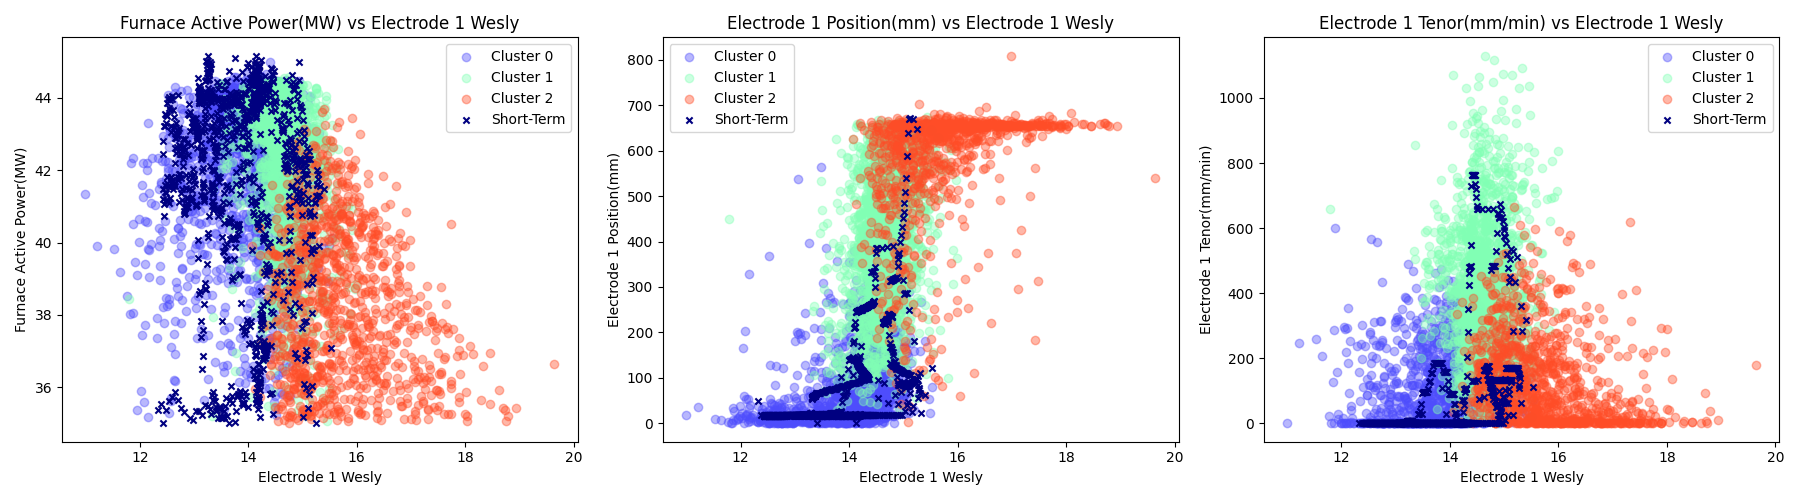
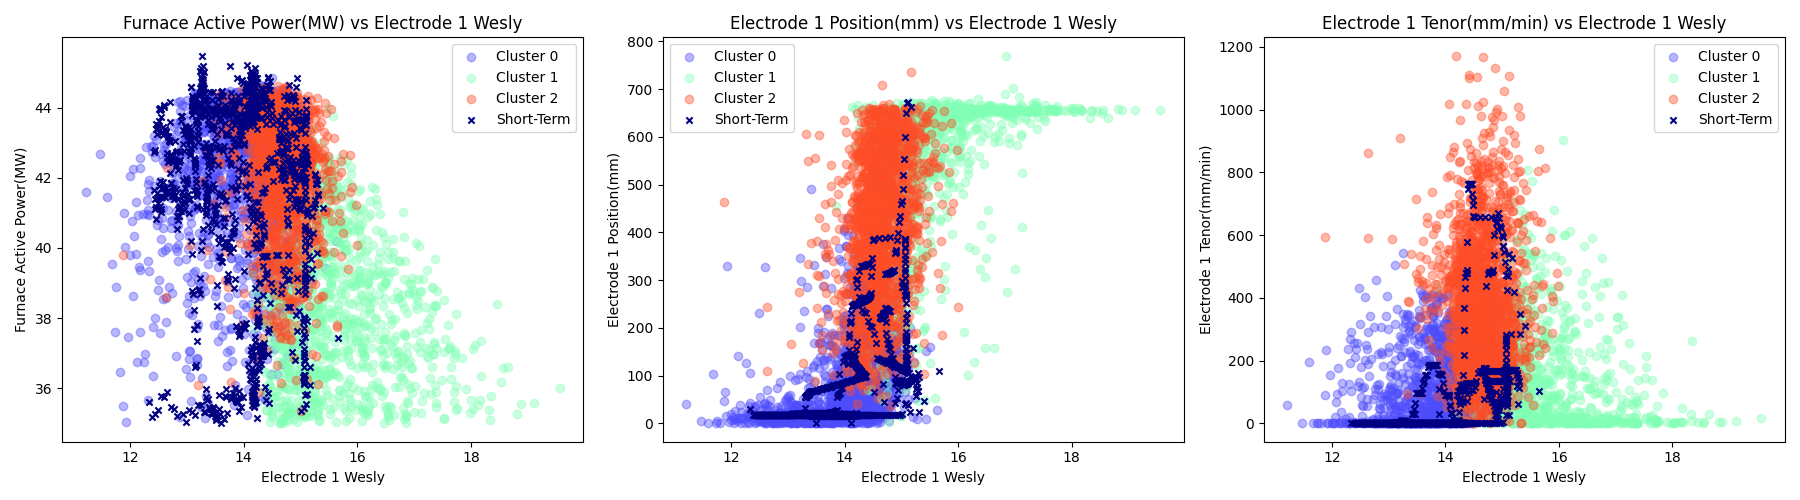
Add k-means clustering with outlier removal and visualizations

diff --git a/scripts/kmeans_overlay.py b/scripts/kmeans_overlay.py
@@ -1,11 +1,9 @@
-# This script updates k-means cluster plots to overlay short-term data (last 24h)
 import pandas as pd
 import matplotlib.pyplot as plt
 import logging
 from sklearn.preprocessing import StandardScaler
 from sklearn.cluster import KMeans
 import matplotlib.cm as cm
-
 
 def run_kmeans_overlay():
     # Load long-term data
@@ -18,7 +16,7 @@ def run_kmeans_overlay():
     short_df.columns = short_df.columns.str.strip('"')
     short_df["TS"] = pd.to_datetime(short_df["TS"], errors="coerce")
 
-    # Mapping long-term to short-term tag names (without "M1")
+    # Mapping long-term to short-term tag names (matching column headers)
     column_mapping = {
         "Furnace Active Power(MW)": "Furnace Active Power(MW)",
         "Electrode 1 Wesly": "Electrode 1 Wesly",
@@ -41,7 +39,11 @@ def run_kmeans_overlay():
     X_short = short_df[short_columns].dropna()
 
     # Optional filtering of short-term data before plotting
-    X_short = X_short[(X_short["Furnace Active Power(MW)"] > 35) & (X_short["Electrode 1 Wesly"] > 10) & (X_short["Electrode 1 Wesly"] < 20)]
+    X_short = X_short[
+        (X_short["Furnace Active Power(MW)"] > 35) &
+        (X_short["Electrode 1 Wesly"] > 10) &
+        (X_short["Electrode 1 Wesly"] < 20)
+    ]
 
     # Rename short-term columns to match long-term names
     X_short = X_short.rename(columns={v: k for k, v in column_mapping.items()})
@@ -85,6 +87,6 @@ def run_kmeans_overlay():
         ax.legend()
 
     plt.tight_layout()
-    plt.savefig("plots/kmeans_cluster_overlay.png")
+    plt.savefig("assets/kmeans_cluster_overlay.png")
     plt.close()
-    logging.info("Overlay plot saved to plots/kmeans_cluster_overlay.png")
+    logging.info("Overlay plot saved to assets/kmeans_cluster_overlay.png")

diff --git a/dashboard/scada_dashboard.py b/dashboard/scada_dashboard.py
@@ -1,0 +1,46 @@
+import dash
+from dash import dcc, html
+import pandas as pd
+import plotly.express as px
+import logging
+
+# Initialize Dash app
+app = dash.Dash(__name__)
+app.title = "Electrode Dashboard"
+
+# Load short-term data
+short_df = pd.read_csv("data/electrode_1_short_term.csv")
+short_df.columns = short_df.columns.str.strip('"')
+short_df["TS"] = pd.to_datetime(short_df["TS"], errors="coerce")
+
+# Choose tags to display
+trend_tags = [
+    "Furnace Power(MW)",
+    "Electrode 1 Wesly",
+    "Electrode 1 Position(mm)",
+    "Electrode 1 Tenor(mm/min)",
+    "Electrode 1 Current(kA)",
+    "Electrode Resistance(mOhm)"
+]
+
+# Create line charts for each tag
+trend_graphs = []
+for tag in trend_tags:
+    if tag in short_df.columns:
+        fig = px.line(short_df, x="TS", y=tag, title=tag)
+        trend_graphs.append(dcc.Graph(figure=fig))
+    else:
+        logging.warning(f"Missing tag in data: {tag}")
+
+# Layout
+app.layout = html.Div([
+    html.H1("SCADA-like Electrode Dashboard", style={"textAlign": "center"}),
+    html.Div(trend_graphs, style={"display": "grid", "gridTemplateColumns": "1fr 1fr", "gap": "20px"}),
+    html.Div([
+        html.H2("K-Means Cluster Overlay"),
+        html.Img(src="/assets/kmeans_cluster_overlay.png", style={"width": "100%", "border": "1px solid #ccc"})
+    ], style={"marginTop": "40px"})
+])
+
+if __name__ == '__main__':
+    app.run_server(debug=True)

diff --git a/dashboard/dashboard_app.py b/dashboard/dashboard_app.py
@@ -1,0 +1,27 @@
+import dash
+from dash import html
+import logging
+import os
+
+# Path to the overlay image
+overlay_image_path = "assets/kmeans_cluster_overlay.png"
+
+# Check if the image exists
+if not os.path.exists(overlay_image_path):
+    logging.warning(f"Overlay image not found at: {overlay_image_path}")
+else:
+    logging.info(f"Overlay image found at: {overlay_image_path}")
+
+# Initialize the app
+app = dash.Dash(__name__)
+server = app.server  # Expose for external deployment if needed
+
+# Layout
+app.layout = html.Div([
+    html.H1("Electrode Dashboard"),
+    html.Img(src=dash.get_asset_url("kmeans_cluster_overlay.png"), style={"width": "100%", "border": "1px solid #ccc"}),
+])
+
+def run_dashboard():
+    logging.info("Launching Dash dashboard...")
+    app.run(debug=False, port=8050)

diff --git a/main.py b/main.py
@@ -3,6 +3,7 @@ from scripts.query_long_term import run_long_term_query
 from scripts.query_short_term import run_short_term_query
 from scripts.kmeans_clustering import run_kmeans_clustering
 from scripts.kmeans_overlay import run_kmeans_overlay
+from dashboard.dashboard_app import run_dashboard
 
 logging.basicConfig(level=logging.INFO)
 
@@ -20,6 +21,9 @@ def main():
 
     # 4. Overlay short-term on cluster plots
     run_kmeans_overlay()
+
+    # 5. Launch dashboard
+    run_dashboard()
 
 if __name__ == "__main__":
     main()
